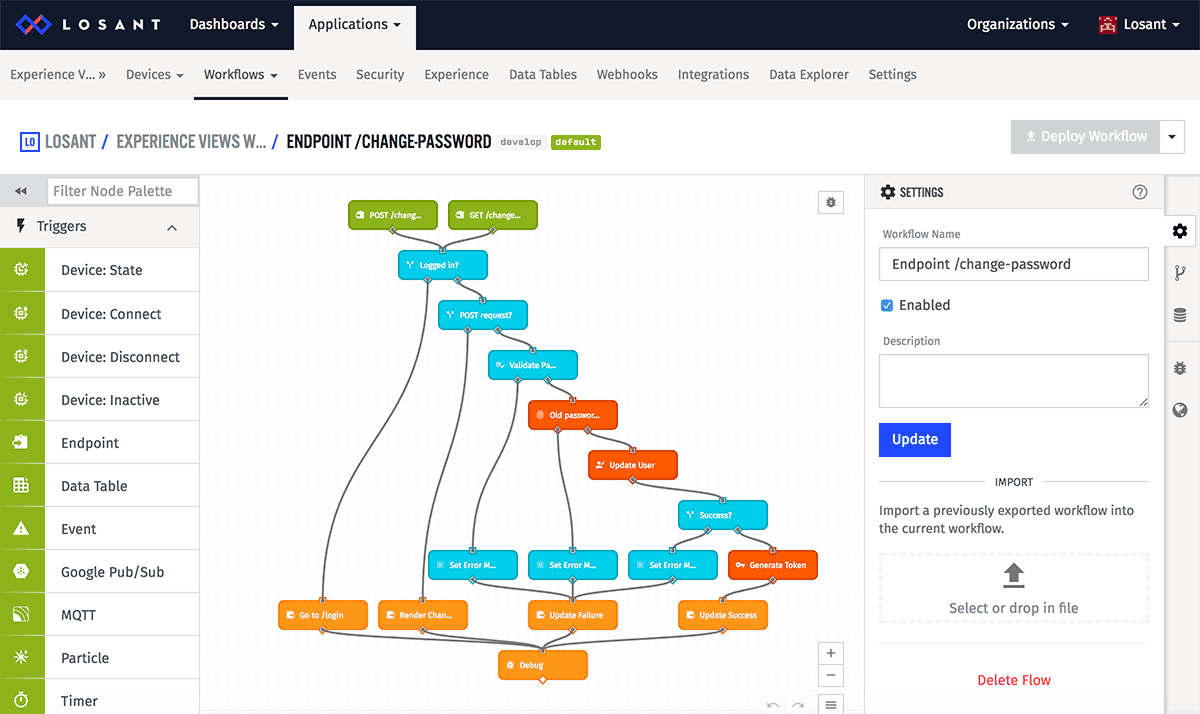
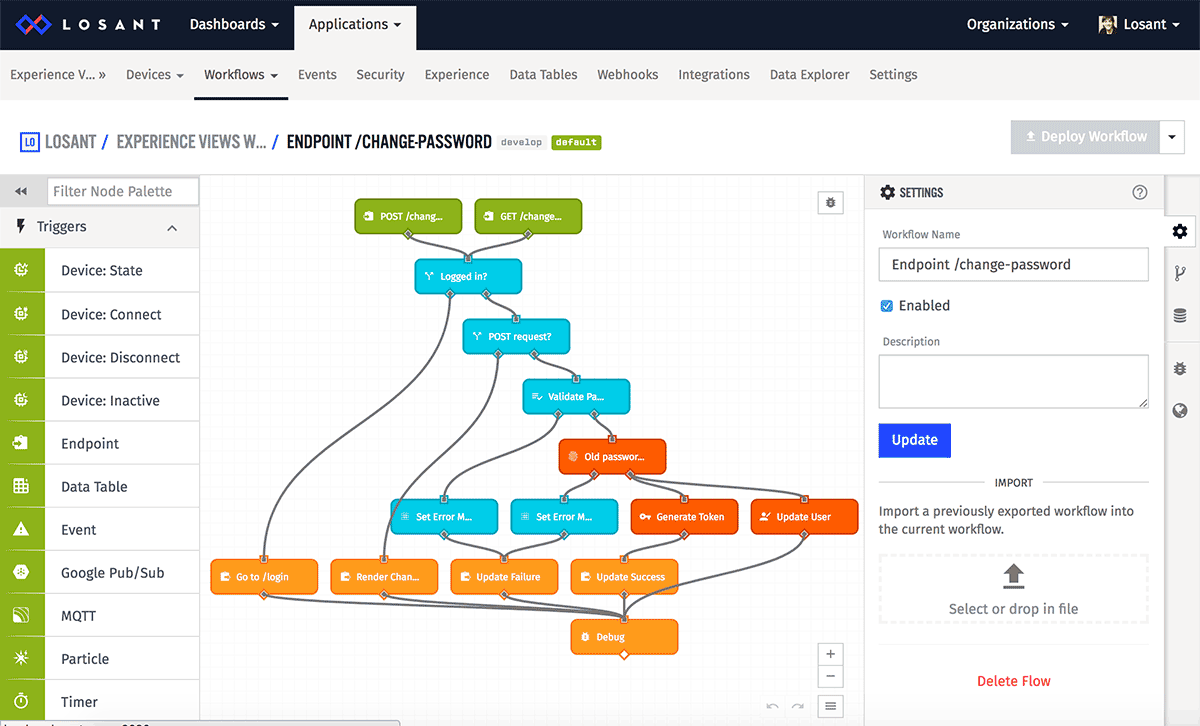
updating change password workflow + minor link / title tweaks

diff --git a/docs/experiences/walkthrough/views/user-profile.md b/docs/experiences/walkthrough/views/user-profile.md
@@ -84,7 +84,7 @@ Return to the "Views" page one more time, then click the "Add" button in the "Co
 
 This component is almost identical to our `errorAlert` component, except it will display in <span style="font-weight: bold; color:#3c763d">friendly green</span> instead of <span style="font-weight: bold; color:#a94442">scary red</span>.
 
-<h3 id="component-profileform" style="text-transform: none"><span style="text-transform: uppercase">Component:</span> profileForm</h3>
+<h3 id="component-profileform" style="text-transform: none"><span style="text-transform: uppercase">Component Edit:</span> profileForm</h3>
 
 Finally, we'll tweak the `profileForm` component we [created for user registration](/experiences/walkthrough/views/user-registration/#component-profileform) so we can reuse the component in our "Edit Profile" page.
 
@@ -104,7 +104,7 @@ Click the "Workflows" dropdown at the top of the page, and select "New Workflow"
 ![Edit Profile Workflow](/images/experiences/walkthrough/views/user-profile/edit-profile-workflow.png "Edit Profile Workflow")
 
 1. `Name` the workflow `Endpoint /edit-profile` and click the "Create Workflow" button.
-1. [Download the workflow template](https://cdn.rawgit.com/Losant/experience-views-walkthrough/9bc72bcb/user-profile/endpoint-edit-profile.flow), then [import the file](/workflows/overview/#import-export) `endpoint-edit-profile.flow` into your new workflow.
+1. Download the **[workflow template](https://cdn.rawgit.com/Losant/experience-views-walkthrough/9bc72bcb/user-profile/endpoint-edit-profile.flow)**, then [import the file](/workflows/overview/#import-export) `endpoint-edit-profile.flow` into your new workflow.
 1. Update each of the [endpoint triggers](/workflows/triggers/endpoint/) to point to the `POST /edit-profile` and `GET /edit-profile` endpoints you created [above](#create-the-endpoints).
 1. Update the [endpoint reply nodes](/workflows/outputs/endpoint-reply/) to point to your [`Edit Profile` page](#page-edit-profile).
 
@@ -123,7 +123,7 @@ Now let's create a workflow allowing our logged-in users to update their passwor
 ![Change Password Workflow](/images/experiences/walkthrough/views/user-profile/change-password-workflow.png "Change Password Workflow")
 
 1. `Name` the workflow `Endpoint /change-password` and click the "Create Workflow" button.
-1. [Download the workflow template](https://cdn.rawgit.com/Losant/experience-views-walkthrough/be441619/user-profile/endpoint-change-password.flow), then [import the file](/workflows/overview/#import-export) `endpoint-change-password.flow` into your new workflow.
+1. Download the **[workflow template](https://cdn.rawgit.com/Losant/experience-views-walkthrough/34204a65/user-profile/endpoint-change-password.flow)**, then [import the file](/workflows/overview/#import-export) `endpoint-change-password.flow` into your new workflow.
 1. Update each of the [endpoint triggers](/workflows/triggers/endpoint/) to point to the `POST /change-password` and `GET /change-password` endpoints you created [above](#create-the-endpoints).
 1. Update the [endpoint reply nodes](/workflows/outputs/endpoint-reply/) to point to your [`Change Password` page](#page-change-password).
 
@@ -141,7 +141,7 @@ Finally, let's give our experience users a way to reach the features we just com
 
 ![Edit Profile Links](/images/experiences/walkthrough/views/user-profile/user-profile-links.png "Edit Profile Links")
 
-<h3 id="component-edits-userindicator" style="text-transform: none"><span style="text-transform: uppercase">Component Edits:</span> userIndicator</h3>
+<h3 id="component-edit-userindicator" style="text-transform: none"><span style="text-transform: uppercase">Component Edit:</span> userIndicator</h3>
 
 Currently, our [`userIndicator` component](/experiences/walkthrough/views/page-layout/) displays a single-item dropdown menu in our layout's top right corner when the user is logged in. Let's add links to our two new features into that menu.
 
